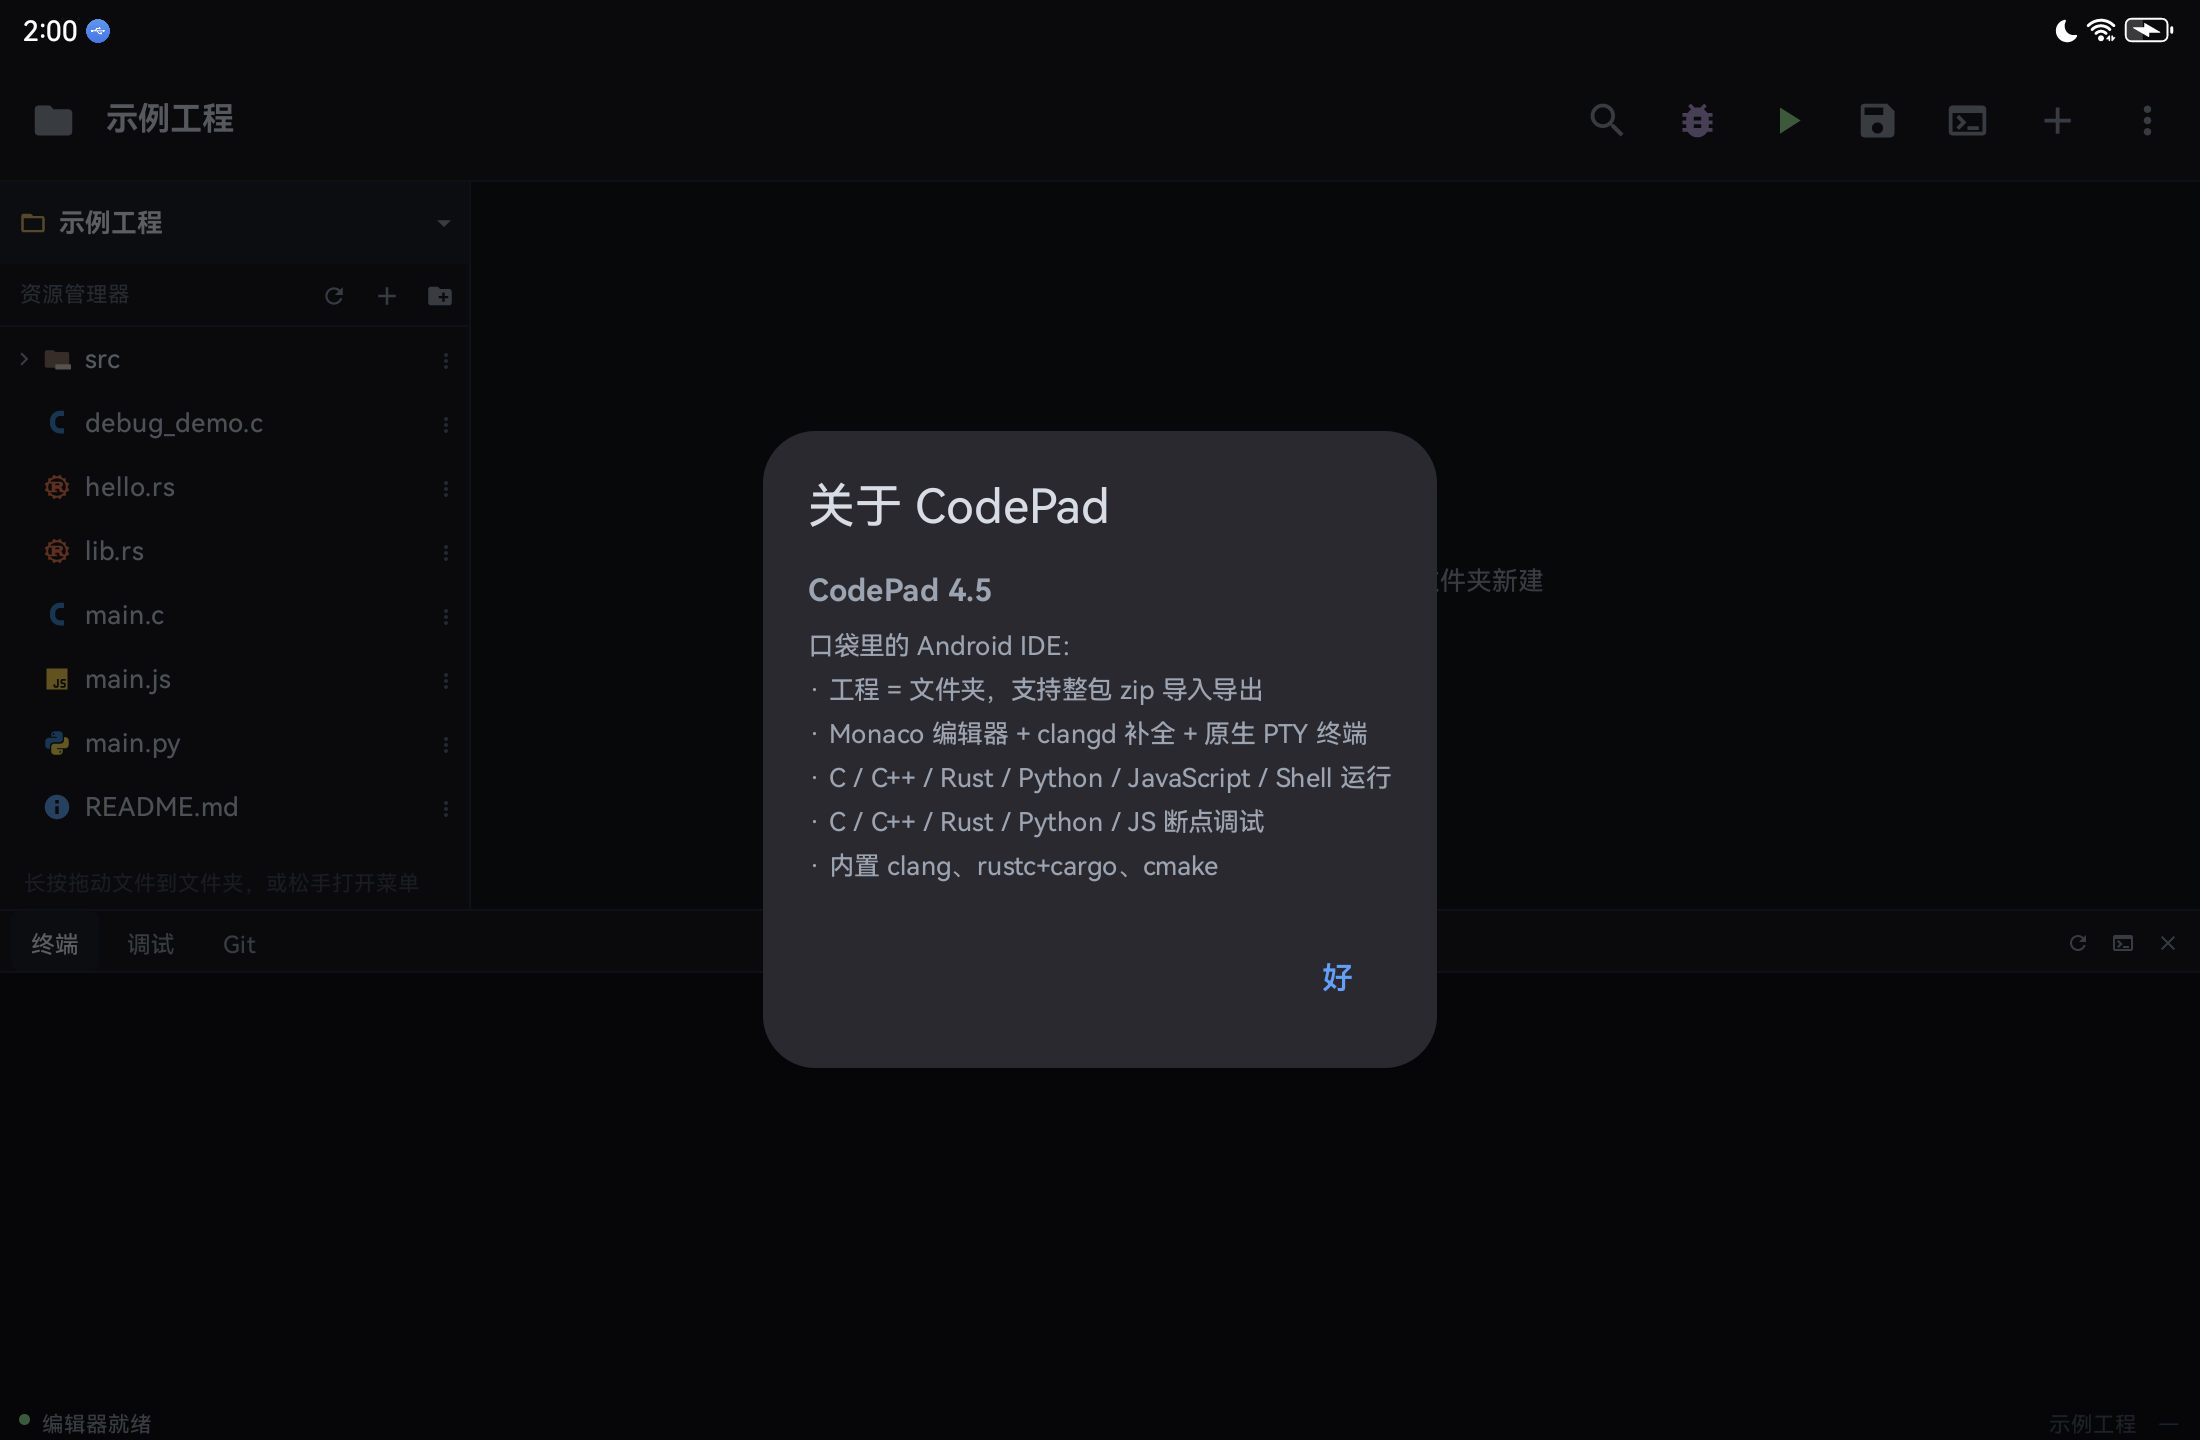
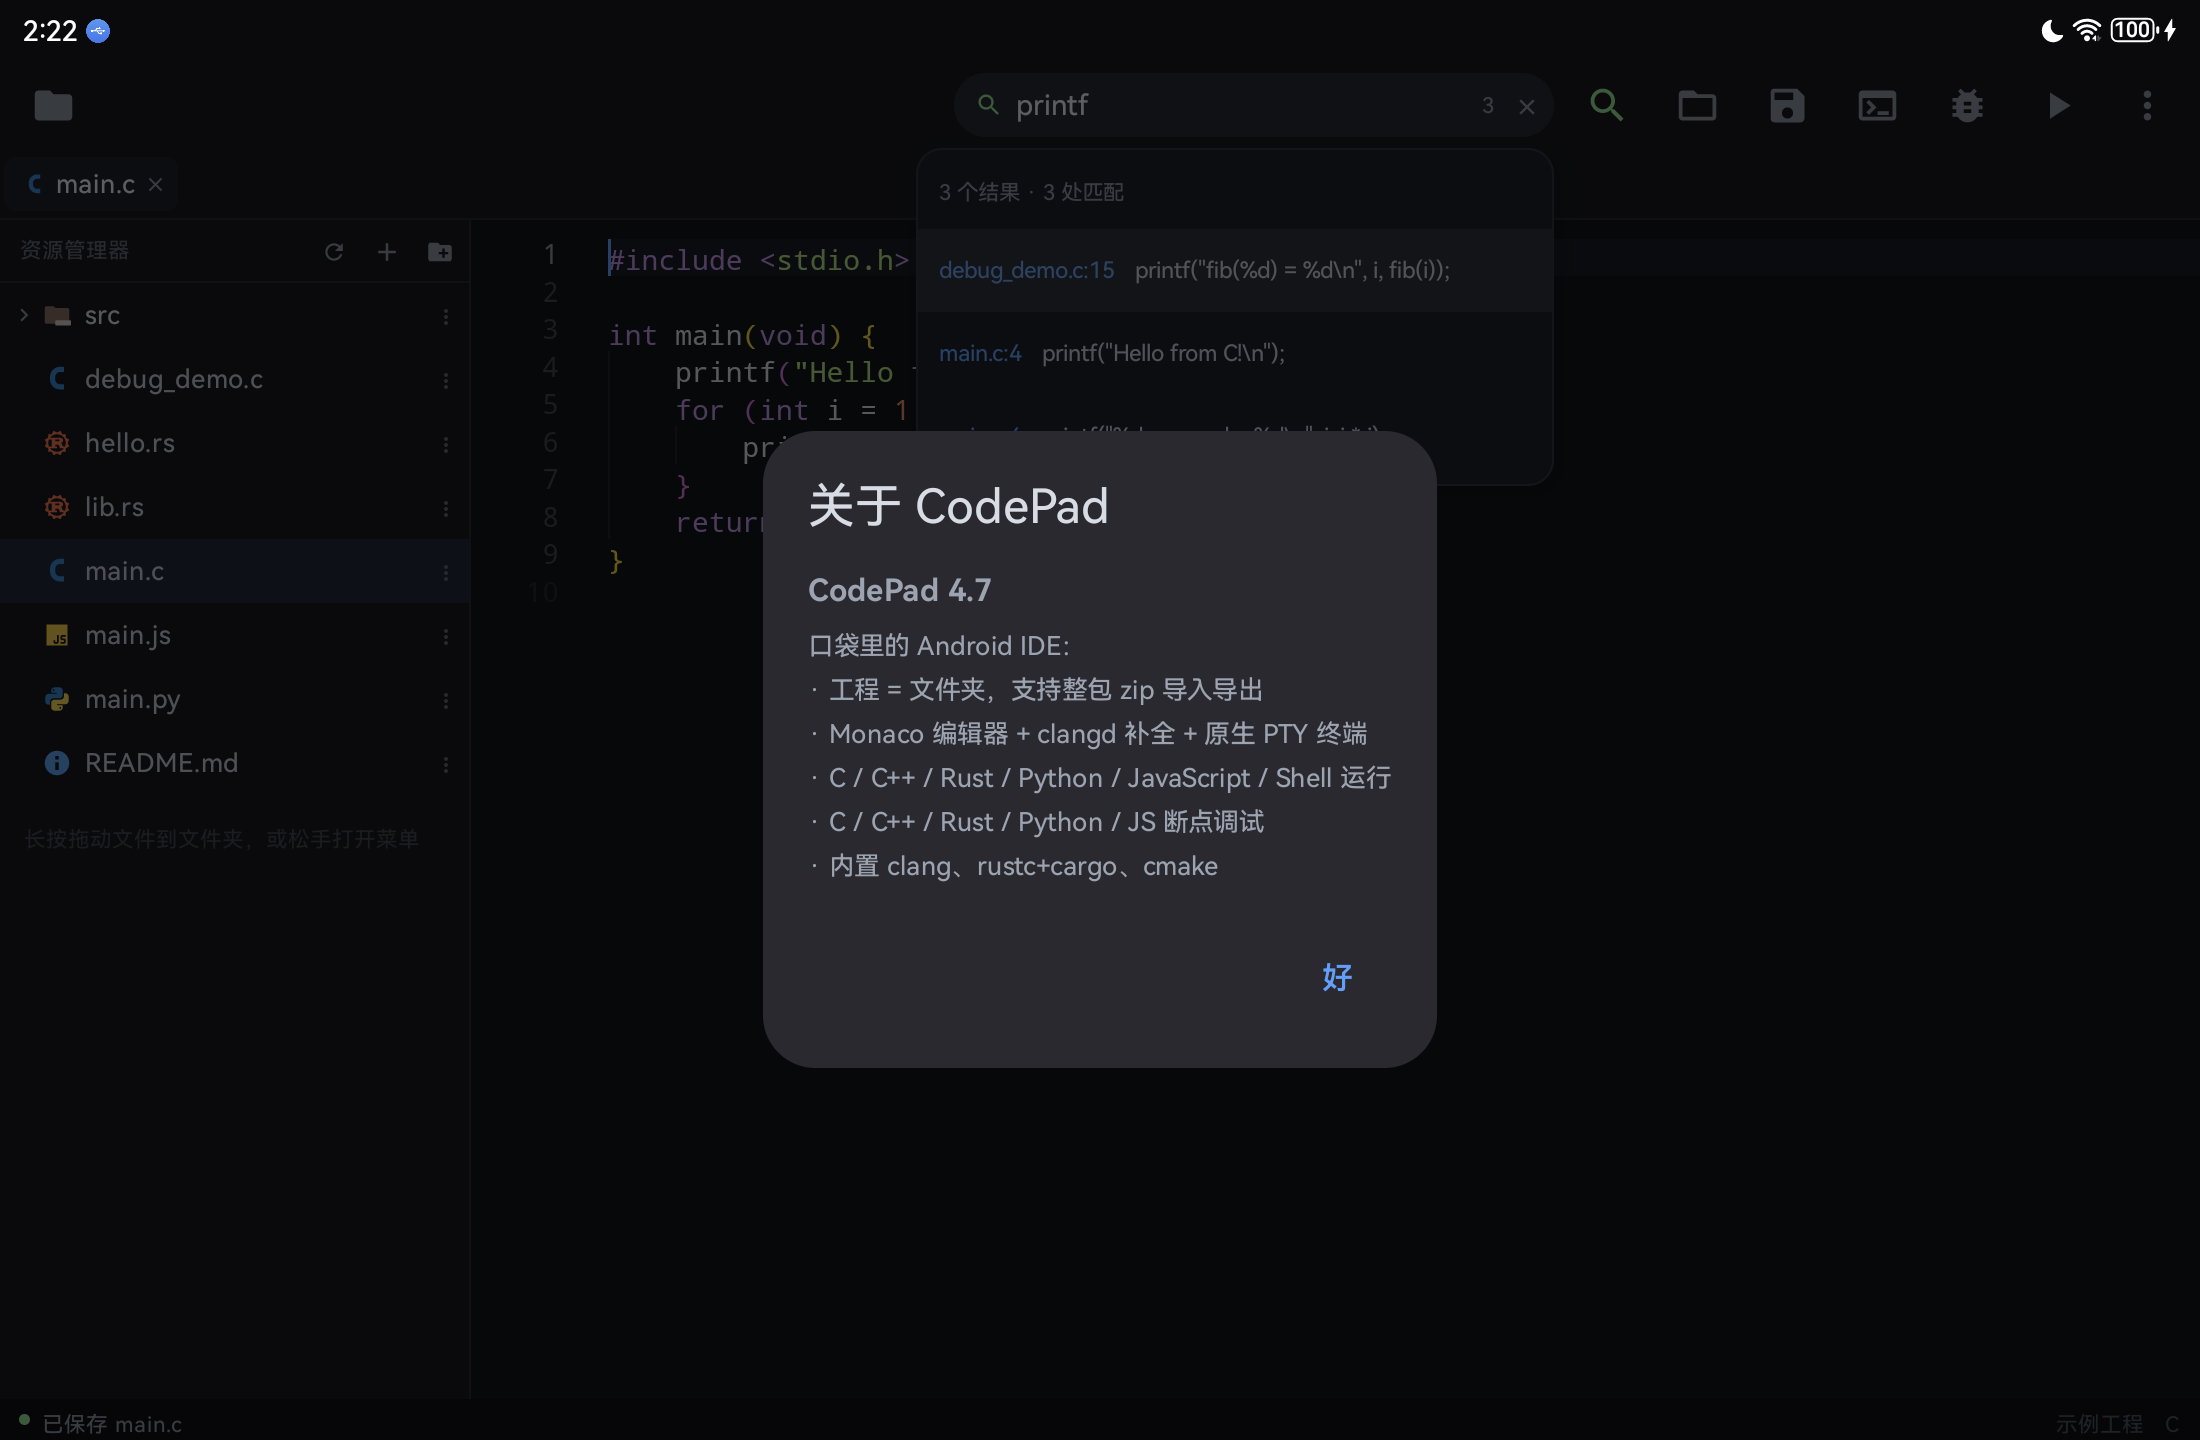
v4.7: 顶栏工程菜单、单行标题、图标对齐、内联搜索、终端修复；更新 README 与全部截图

diff --git a/README.md b/README.md
@@ -5,7 +5,7 @@
 一个**完全离线**的 Android 平板 IDE。不需要网络、不需要 Termux、不需要 root：
 工具链随 APK 一起装好，打开就能写代码、编译、下断点、提交 Git。
 
-![编辑器与终端](docs/screenshot-terminal.png)
+![主界面](docs/screenshot-main.png)
 
 ## 它和"手机代码编辑器"的区别
 
@@ -21,24 +21,33 @@
 
 ### 编辑
 - Monaco 编辑器，语法高亮、括号匹配、多光标、查找替换
-- 多标签页；关闭脏标签会先保存
-- **全局搜索**：顶栏点 🔍 直接在标题栏输入，边打边出结果（下拉列表带文件:行号和代码片段），点一下跳到对应行；自动跳过大文件/二进制/构建目录
+- 多标签页；标题栏一行显示「文件名 + 工程名」，不再占两行
+- **全局搜索**：顶栏 🔍 直接在标题栏输入，边打边出结果（文件:行号 + 代码片段），点一下跳到对应行；自动跳过大文件/二进制/构建目录
 - **设置**：编辑器字号、缩进宽度、自动换行、终端字号，改完即时生效并记住
 - C/C++ 补全与悬停（clangd），Rust 补全（rust-analyzer，需 Cargo 工程）
-- **跳转到定义**：⋮ →「跳转到定义（F12）」，光标停在符号上执行；**支持跨文件**（例如从 .c 跳到 .h 里的声明）
+- **跳转到定义**（F12）：⋮ 菜单触发，**支持跨文件**（从 .c 跳到 .h 的声明）
+
+![全局搜索](docs/screenshot-search.png)
+
+![设置](docs/screenshot-settings.png)
 
 ### 工程
-- 一个工程 = 一个文件夹，支持重命名、删除、切换
+- 顶栏 **工程** 菜单：切换 / 新建 / 导入 / 导出 / 重命名 / 删除，一处集中管理
+- 一个工程 = 一个文件夹；资源管理器不再重复显示工程名
 - 文件树支持拖拽移动、文件夹层级、Material 真实图标
 - 模板：空工程 / C / C++·CMake / Python / Rust / Web / 多语言
 - **整包导出/导入 zip**（走系统文件选择器，可存到下载目录）
+
+![工程菜单](docs/screenshot-project-menu.png)
 
 ### 编译与运行
 - **C / C++**：clang 21 + lld，CMake 工程自动 `cmake --build`，支持多 target 选择
 - **Rust**：rustc 1.100 + cargo，有 `Cargo.toml` 时走 `cargo run`
 - **Python**：CPython（Chaquopy 打包，支持标准库）
 - **JavaScript**：QuickJS
-- **Shell**：真实 PTY（JNI forkpty），xterm.js 前端，自定义提示符
+- **Shell**：真实 PTY（JNI forkpty），xterm.js 前端；提示符单行显示当前路径与 git 分支，面板右上可清屏 / 重启 / 收起
+
+![终端](docs/screenshot-terminal.png)
 
 ### 调试
 - 断点：点行号左侧红点，支持条件无、命中高亮
@@ -47,7 +56,7 @@
 - C/C++/Rust 走 gdbserver + 自研 DWARF 解析；Python 用 `sys.settrace`；JS 用 QuickJS 行级钩子
 - Rust 能展开 `String`、`Vec<T>`、结构体字段（处理了 Rust 字段重排和指针 MTE 标记）
 
-![Rust 变量](docs/screenshot-rust-values.png)
+![断点调试](docs/screenshot-debug.png)
 
 ### Git
 - 内置 git 2.56.1，不依赖系统 git；首次使用解压约 13MB
@@ -70,11 +79,11 @@
 
 只提供 **arm64-v8a**，要求 Android 8.0+。
 
-`v4.2` 的 APK 校验信息：
+`v4.7` 的 APK 校验信息：
 
 ```
-CodePad-4.2-arm64.apk   226.4 MB (237,354,383 字节)
-SHA-256: 0d43fe58167b79a950b5aeca5af6ea546b0ada7a72d4c6414a42fd6c908080b1
+CodePad-4.7-arm64.apk   226.4 MB (237,392,931 字节)
+SHA-256: 7a0721ae9352bc852c456586548145af69c37bad6655bd978f9a7430d89e7e4a
 ```
 
 APK 约 226MB，因为内置了完整的 C/C++/Rust 工具链。
